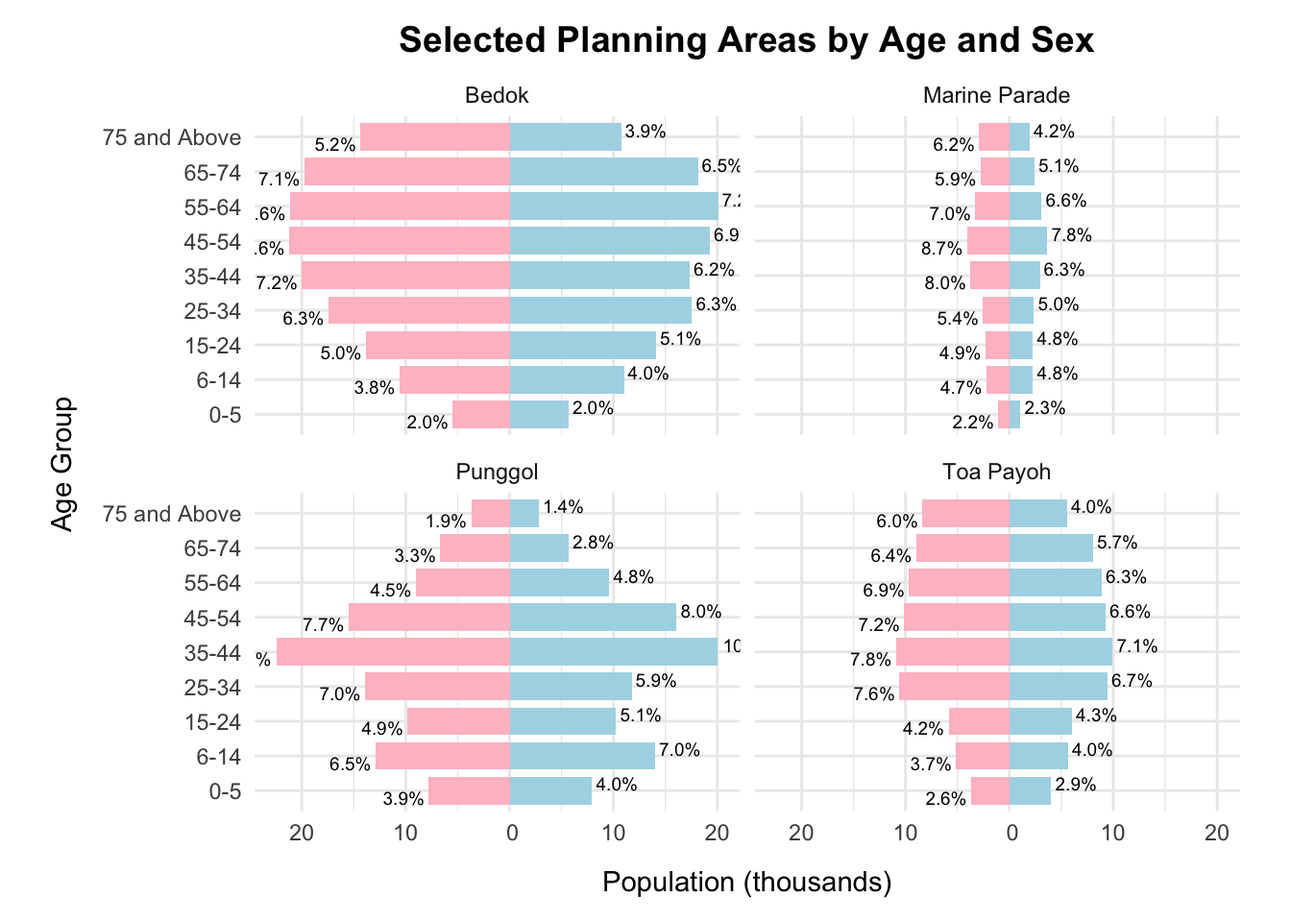
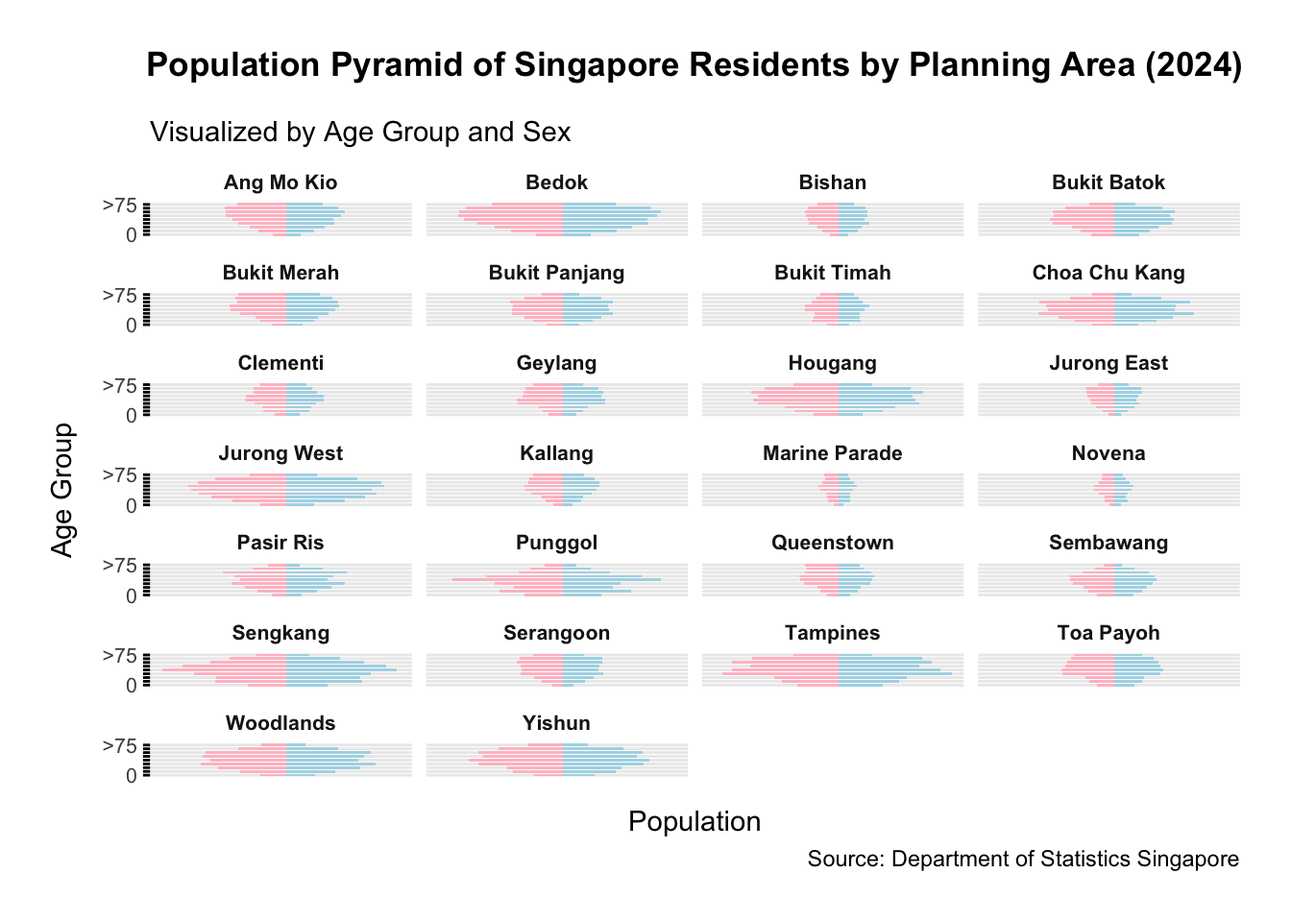
Commit after Update Take Home 4

diff --git a/_site/Take-home_Exercise/Take-home_Ex01/Take-Home_Exercise01.html b/_site/Take-home_Exercise/Take-home_Ex01/Take-Home_Exercise01.html
@@ -665,73 +665,148 @@ To uncover meaningful trends in age, gender, and location for public understandi
 <div class="cell">
 <details class="code-fold">
 <summary>Code</summary>
-<div class="sourceCode cell-code" id="cb10"><pre class="sourceCode r code-with-copy"><code class="sourceCode r"><span id="cb10-1"><a href="#cb10-1" aria-hidden="true" tabindex="-1"></a>include_areas <span class="ot">&lt;-</span> <span class="fu">c</span>(<span class="st">"Bedok"</span>, <span class="st">"Marine Parade"</span>, <span class="st">"Punggol"</span>, <span class="st">"Toa Payoh"</span>)</span>
-<span id="cb10-2"><a href="#cb10-2" aria-hidden="true" tabindex="-1"></a></span>
+<div class="sourceCode cell-code" id="cb10"><pre class="sourceCode r code-with-copy"><code class="sourceCode r"><span id="cb10-1"><a href="#cb10-1" aria-hidden="true" tabindex="-1"></a>exclude_areas <span class="ot">&lt;-</span> <span class="fu">c</span>(<span class="st">"Changi"</span>, <span class="st">"Downtown Core"</span>, <span class="st">"Museum"</span>, <span class="st">"Newton"</span>, <span class="st">"Outram"</span>,</span>
+<span id="cb10-2"><a href="#cb10-2" aria-hidden="true" tabindex="-1"></a>                   <span class="st">"River Valley"</span>, <span class="st">"Singapore River"</span>, <span class="st">"Southern Islands"</span>, <span class="st">"Tanglin"</span>, <span class="st">"Tengah"</span>)</span>
 <span id="cb10-3"><a href="#cb10-3" aria-hidden="true" tabindex="-1"></a></span>
-<span id="cb10-4"><a href="#cb10-4" aria-hidden="true" tabindex="-1"></a>age_order <span class="ot">&lt;-</span> <span class="fu">c</span>(<span class="st">"0-5"</span>, <span class="st">"6-14"</span>, <span class="st">"15-24"</span>, <span class="st">"25-34"</span>, <span class="st">"35-44"</span>, <span class="st">"45-54"</span>, <span class="st">"55-64"</span>, <span class="st">"65-74"</span>, <span class="st">"75 and Above"</span>)</span>
-<span id="cb10-5"><a href="#cb10-5" aria-hidden="true" tabindex="-1"></a></span>
-<span id="cb10-6"><a href="#cb10-6" aria-hidden="true" tabindex="-1"></a></span>
-<span id="cb10-7"><a href="#cb10-7" aria-hidden="true" tabindex="-1"></a>binrespo_filtered <span class="ot">&lt;-</span> binrespo <span class="sc">%&gt;%</span></span>
-<span id="cb10-8"><a href="#cb10-8" aria-hidden="true" tabindex="-1"></a>  <span class="fu">filter</span>(PA <span class="sc">%in%</span> include_areas, <span class="sc">!</span><span class="fu">is.na</span>(age_binned), <span class="sc">!</span><span class="fu">is.na</span>(Pop)) <span class="sc">%&gt;%</span></span>
-<span id="cb10-9"><a href="#cb10-9" aria-hidden="true" tabindex="-1"></a>  <span class="fu">mutate</span>(<span class="at">age_binned =</span> <span class="fu">factor</span>(age_binned, <span class="at">levels =</span> age_order, <span class="at">ordered =</span> <span class="cn">TRUE</span>))</span>
-<span id="cb10-10"><a href="#cb10-10" aria-hidden="true" tabindex="-1"></a></span>
-<span id="cb10-11"><a href="#cb10-11" aria-hidden="true" tabindex="-1"></a></span>
-<span id="cb10-12"><a href="#cb10-12" aria-hidden="true" tabindex="-1"></a>total_pop_pa <span class="ot">&lt;-</span> binrespo_filtered <span class="sc">%&gt;%</span></span>
-<span id="cb10-13"><a href="#cb10-13" aria-hidden="true" tabindex="-1"></a>  <span class="fu">group_by</span>(PA) <span class="sc">%&gt;%</span></span>
-<span id="cb10-14"><a href="#cb10-14" aria-hidden="true" tabindex="-1"></a>  <span class="fu">summarise</span>(<span class="at">TotalPopPA =</span> <span class="fu">sum</span>(Pop), <span class="at">.groups =</span> <span class="st">'drop'</span>)</span>
-<span id="cb10-15"><a href="#cb10-15" aria-hidden="true" tabindex="-1"></a></span>
-<span id="cb10-16"><a href="#cb10-16" aria-hidden="true" tabindex="-1"></a></span>
-<span id="cb10-17"><a href="#cb10-17" aria-hidden="true" tabindex="-1"></a>pyramid_data <span class="ot">&lt;-</span> binrespo_filtered <span class="sc">%&gt;%</span></span>
-<span id="cb10-18"><a href="#cb10-18" aria-hidden="true" tabindex="-1"></a>  <span class="fu">group_by</span>(PA, age_binned, Sex) <span class="sc">%&gt;%</span></span>
-<span id="cb10-19"><a href="#cb10-19" aria-hidden="true" tabindex="-1"></a>  <span class="fu">summarise</span>(<span class="at">TotalPop =</span> <span class="fu">sum</span>(Pop), <span class="at">.groups =</span> <span class="st">'drop'</span>) <span class="sc">%&gt;%</span></span>
-<span id="cb10-20"><a href="#cb10-20" aria-hidden="true" tabindex="-1"></a>  <span class="fu">left_join</span>(total_pop_pa, <span class="at">by =</span> <span class="st">"PA"</span>) <span class="sc">%&gt;%</span></span>
-<span id="cb10-21"><a href="#cb10-21" aria-hidden="true" tabindex="-1"></a>  <span class="fu">mutate</span>(</span>
-<span id="cb10-22"><a href="#cb10-22" aria-hidden="true" tabindex="-1"></a>    <span class="at">AdjustedPop =</span> <span class="fu">ifelse</span>(Sex <span class="sc">==</span> <span class="st">"Females"</span>, <span class="sc">-</span>TotalPop, TotalPop),</span>
-<span id="cb10-23"><a href="#cb10-23" aria-hidden="true" tabindex="-1"></a>    <span class="at">Percentage =</span> (TotalPop <span class="sc">/</span> TotalPopPA) <span class="sc">*</span> <span class="dv">100</span></span>
-<span id="cb10-24"><a href="#cb10-24" aria-hidden="true" tabindex="-1"></a>  )</span>
-<span id="cb10-25"><a href="#cb10-25" aria-hidden="true" tabindex="-1"></a></span>
+<span id="cb10-4"><a href="#cb10-4" aria-hidden="true" tabindex="-1"></a>binrespo_filtered <span class="ot">&lt;-</span> binrespo <span class="sc">%&gt;%</span></span>
+<span id="cb10-5"><a href="#cb10-5" aria-hidden="true" tabindex="-1"></a>  <span class="fu">filter</span>(<span class="sc">!</span>PA <span class="sc">%in%</span> exclude_areas, <span class="sc">!</span><span class="fu">is.na</span>(age_binned), <span class="sc">!</span><span class="fu">is.na</span>(Pop)) <span class="sc">%&gt;%</span></span>
+<span id="cb10-6"><a href="#cb10-6" aria-hidden="true" tabindex="-1"></a>  <span class="fu">mutate</span>(</span>
+<span id="cb10-7"><a href="#cb10-7" aria-hidden="true" tabindex="-1"></a>    <span class="at">age_binned_labeled =</span> <span class="fu">case_when</span>(</span>
+<span id="cb10-8"><a href="#cb10-8" aria-hidden="true" tabindex="-1"></a>      age_binned <span class="sc">==</span> <span class="st">"0-5"</span> <span class="sc">~</span> <span class="st">"0"</span>,</span>
+<span id="cb10-9"><a href="#cb10-9" aria-hidden="true" tabindex="-1"></a>      age_binned <span class="sc">==</span> <span class="st">"75 and Above"</span> <span class="sc">~</span> <span class="st">"&gt;75"</span>,</span>
+<span id="cb10-10"><a href="#cb10-10" aria-hidden="true" tabindex="-1"></a>      <span class="cn">TRUE</span> <span class="sc">~</span> <span class="fu">as.character</span>(age_binned)</span>
+<span id="cb10-11"><a href="#cb10-11" aria-hidden="true" tabindex="-1"></a>    ),</span>
+<span id="cb10-12"><a href="#cb10-12" aria-hidden="true" tabindex="-1"></a>    <span class="at">age_binned =</span> <span class="fu">factor</span>(age_binned,</span>
+<span id="cb10-13"><a href="#cb10-13" aria-hidden="true" tabindex="-1"></a>                        <span class="at">levels =</span> <span class="fu">c</span>(<span class="st">"0-5"</span>, <span class="st">"6-14"</span>, <span class="st">"15-24"</span>, <span class="st">"25-34"</span>,</span>
+<span id="cb10-14"><a href="#cb10-14" aria-hidden="true" tabindex="-1"></a>                                   <span class="st">"35-44"</span>, <span class="st">"45-54"</span>, <span class="st">"55-64"</span>, <span class="st">"65-74"</span>, <span class="st">"75 and Above"</span>),</span>
+<span id="cb10-15"><a href="#cb10-15" aria-hidden="true" tabindex="-1"></a>                        <span class="at">ordered =</span> <span class="cn">TRUE</span>),</span>
+<span id="cb10-16"><a href="#cb10-16" aria-hidden="true" tabindex="-1"></a>    <span class="at">age_binned_labeled =</span> <span class="fu">factor</span>(age_binned_labeled,</span>
+<span id="cb10-17"><a href="#cb10-17" aria-hidden="true" tabindex="-1"></a>                                <span class="at">levels =</span> <span class="fu">c</span>(<span class="st">"0"</span>, <span class="st">"6-14"</span>, <span class="st">"15-24"</span>, <span class="st">"25-34"</span>,</span>
+<span id="cb10-18"><a href="#cb10-18" aria-hidden="true" tabindex="-1"></a>                                           <span class="st">"35-44"</span>, <span class="st">"45-54"</span>, <span class="st">"55-64"</span>, <span class="st">"65-74"</span>, <span class="st">"&gt;75"</span>),</span>
+<span id="cb10-19"><a href="#cb10-19" aria-hidden="true" tabindex="-1"></a>                                <span class="at">ordered =</span> <span class="cn">TRUE</span>)</span>
+<span id="cb10-20"><a href="#cb10-20" aria-hidden="true" tabindex="-1"></a>  )</span>
+<span id="cb10-21"><a href="#cb10-21" aria-hidden="true" tabindex="-1"></a></span>
+<span id="cb10-22"><a href="#cb10-22" aria-hidden="true" tabindex="-1"></a>pyramid_data <span class="ot">&lt;-</span> binrespo_filtered <span class="sc">%&gt;%</span></span>
+<span id="cb10-23"><a href="#cb10-23" aria-hidden="true" tabindex="-1"></a>  <span class="fu">group_by</span>(PA, age_binned, age_binned_labeled, Sex) <span class="sc">%&gt;%</span></span>
+<span id="cb10-24"><a href="#cb10-24" aria-hidden="true" tabindex="-1"></a>  <span class="fu">summarise</span>(<span class="at">TotalPop =</span> <span class="fu">sum</span>(Pop), <span class="at">.groups =</span> <span class="st">'drop'</span>) <span class="sc">%&gt;%</span></span>
+<span id="cb10-25"><a href="#cb10-25" aria-hidden="true" tabindex="-1"></a>  <span class="fu">mutate</span>(<span class="at">AdjustedPop =</span> <span class="fu">ifelse</span>(Sex <span class="sc">==</span> <span class="st">"Females"</span>, <span class="sc">-</span>TotalPop, TotalPop))</span>
 <span id="cb10-26"><a href="#cb10-26" aria-hidden="true" tabindex="-1"></a></span>
-<span id="cb10-27"><a href="#cb10-27" aria-hidden="true" tabindex="-1"></a>max_abs_pop <span class="ot">&lt;-</span> <span class="fu">ceiling</span>(<span class="fu">max</span>(<span class="fu">abs</span>(pyramid_data<span class="sc">$</span>AdjustedPop)) <span class="sc">/</span> <span class="dv">10000</span>) <span class="sc">*</span> <span class="dv">10000</span></span>
-<span id="cb10-28"><a href="#cb10-28" aria-hidden="true" tabindex="-1"></a>y_breaks <span class="ot">&lt;-</span> <span class="fu">seq</span>(<span class="sc">-</span>max_abs_pop, max_abs_pop, <span class="at">by =</span> <span class="dv">10000</span>)</span>
-<span id="cb10-29"><a href="#cb10-29" aria-hidden="true" tabindex="-1"></a>num_pas <span class="ot">&lt;-</span> <span class="fu">length</span>(<span class="fu">unique</span>(pyramid_data<span class="sc">$</span>PA))</span>
-<span id="cb10-30"><a href="#cb10-30" aria-hidden="true" tabindex="-1"></a>num_rows <span class="ot">&lt;-</span> <span class="fu">ceiling</span>(num_pas <span class="sc">/</span> <span class="dv">2</span>)</span>
-<span id="cb10-31"><a href="#cb10-31" aria-hidden="true" tabindex="-1"></a></span>
-<span id="cb10-32"><a href="#cb10-32" aria-hidden="true" tabindex="-1"></a></span>
-<span id="cb10-33"><a href="#cb10-33" aria-hidden="true" tabindex="-1"></a><span class="fu">ggplot</span>(pyramid_data, <span class="fu">aes</span>(<span class="at">x =</span> age_binned, <span class="at">y =</span> AdjustedPop, <span class="at">fill =</span> Sex)) <span class="sc">+</span></span>
-<span id="cb10-34"><a href="#cb10-34" aria-hidden="true" tabindex="-1"></a>  <span class="fu">geom_bar</span>(<span class="at">stat =</span> <span class="st">"identity"</span>, <span class="at">width =</span> <span class="fl">0.8</span>) <span class="sc">+</span></span>
-<span id="cb10-35"><a href="#cb10-35" aria-hidden="true" tabindex="-1"></a>  <span class="fu">coord_flip</span>() <span class="sc">+</span></span>
-<span id="cb10-36"><a href="#cb10-36" aria-hidden="true" tabindex="-1"></a>  <span class="fu">facet_wrap</span>(<span class="sc">~</span> PA, <span class="at">nrow =</span> num_rows) <span class="sc">+</span></span>
-<span id="cb10-37"><a href="#cb10-37" aria-hidden="true" tabindex="-1"></a>  <span class="fu">scale_y_continuous</span>(</span>
-<span id="cb10-38"><a href="#cb10-38" aria-hidden="true" tabindex="-1"></a>    <span class="at">labels =</span> <span class="cf">function</span>(x) <span class="fu">format</span>(<span class="fu">abs</span>(x) <span class="sc">/</span> <span class="dv">1000</span>, <span class="at">scientific =</span> <span class="cn">FALSE</span>, <span class="at">suffix =</span> <span class="st">"k"</span>),</span>
-<span id="cb10-39"><a href="#cb10-39" aria-hidden="true" tabindex="-1"></a>    <span class="at">name =</span> <span class="st">"Population (thousands)"</span>,</span>
-<span id="cb10-40"><a href="#cb10-40" aria-hidden="true" tabindex="-1"></a>    <span class="at">breaks =</span> y_breaks</span>
-<span id="cb10-41"><a href="#cb10-41" aria-hidden="true" tabindex="-1"></a>  ) <span class="sc">+</span></span>
-<span id="cb10-42"><a href="#cb10-42" aria-hidden="true" tabindex="-1"></a>  <span class="fu">scale_fill_manual</span>(<span class="at">values =</span> <span class="fu">c</span>(<span class="st">"Females"</span> <span class="ot">=</span> <span class="st">"pink"</span>, <span class="st">"Males"</span> <span class="ot">=</span> <span class="st">"lightblue"</span>)) <span class="sc">+</span></span>
-<span id="cb10-43"><a href="#cb10-43" aria-hidden="true" tabindex="-1"></a>  <span class="fu">geom_text</span>(</span>
-<span id="cb10-44"><a href="#cb10-44" aria-hidden="true" tabindex="-1"></a>    <span class="fu">aes</span>(<span class="at">label =</span> <span class="fu">sprintf</span>(<span class="st">"%.1f%%"</span>, Percentage),</span>
-<span id="cb10-45"><a href="#cb10-45" aria-hidden="true" tabindex="-1"></a>        <span class="at">hjust =</span> <span class="fu">ifelse</span>(AdjustedPop <span class="sc">&gt;</span> <span class="dv">0</span>, <span class="sc">-</span><span class="fl">0.1</span>, <span class="fl">1.1</span>)), </span>
-<span id="cb10-46"><a href="#cb10-46" aria-hidden="true" tabindex="-1"></a>    <span class="at">size =</span> <span class="fl">2.5</span>,</span>
-<span id="cb10-47"><a href="#cb10-47" aria-hidden="true" tabindex="-1"></a>    <span class="at">position =</span> <span class="fu">position_dodge</span>(<span class="at">width =</span> <span class="fl">0.8</span>)</span>
+<span id="cb10-27"><a href="#cb10-27" aria-hidden="true" tabindex="-1"></a><span class="fu">ggplot</span>(pyramid_data, <span class="fu">aes</span>(<span class="at">x =</span> age_binned, <span class="at">y =</span> AdjustedPop, <span class="at">fill =</span> Sex)) <span class="sc">+</span></span>
+<span id="cb10-28"><a href="#cb10-28" aria-hidden="true" tabindex="-1"></a>  <span class="fu">geom_bar</span>(<span class="at">stat =</span> <span class="st">"identity"</span>, <span class="at">width =</span> <span class="fl">0.7</span>) <span class="sc">+</span></span>
+<span id="cb10-29"><a href="#cb10-29" aria-hidden="true" tabindex="-1"></a>  <span class="fu">coord_flip</span>() <span class="sc">+</span></span>
+<span id="cb10-30"><a href="#cb10-30" aria-hidden="true" tabindex="-1"></a>  <span class="fu">facet_wrap</span>(<span class="sc">~</span> PA, <span class="at">ncol =</span> <span class="dv">4</span>) <span class="sc">+</span></span>
+<span id="cb10-31"><a href="#cb10-31" aria-hidden="true" tabindex="-1"></a>  <span class="fu">scale_y_continuous</span>(</span>
+<span id="cb10-32"><a href="#cb10-32" aria-hidden="true" tabindex="-1"></a>    <span class="at">labels =</span> abs,</span>
+<span id="cb10-33"><a href="#cb10-33" aria-hidden="true" tabindex="-1"></a>    <span class="at">name =</span> <span class="st">"Population"</span>,</span>
+<span id="cb10-34"><a href="#cb10-34" aria-hidden="true" tabindex="-1"></a>    <span class="at">breaks =</span> scales<span class="sc">::</span><span class="fu">pretty_breaks</span>(<span class="at">n =</span> <span class="dv">4</span>)</span>
+<span id="cb10-35"><a href="#cb10-35" aria-hidden="true" tabindex="-1"></a>  ) <span class="sc">+</span></span>
+<span id="cb10-36"><a href="#cb10-36" aria-hidden="true" tabindex="-1"></a>  <span class="fu">scale_x_discrete</span>(</span>
+<span id="cb10-37"><a href="#cb10-37" aria-hidden="true" tabindex="-1"></a>    <span class="at">name =</span> <span class="st">"Age Group"</span>,</span>
+<span id="cb10-38"><a href="#cb10-38" aria-hidden="true" tabindex="-1"></a>    <span class="at">labels =</span> <span class="fu">case_when</span>(</span>
+<span id="cb10-39"><a href="#cb10-39" aria-hidden="true" tabindex="-1"></a>      <span class="fu">levels</span>(pyramid_data<span class="sc">$</span>age_binned) <span class="sc">%in%</span> <span class="fu">c</span>(<span class="st">"0-5"</span>, <span class="st">"75 and Above"</span>) <span class="sc">~</span> <span class="fu">levels</span>(pyramid_data<span class="sc">$</span>age_binned_labeled),</span>
+<span id="cb10-40"><a href="#cb10-40" aria-hidden="true" tabindex="-1"></a>      <span class="cn">TRUE</span> <span class="sc">~</span> <span class="st">""</span></span>
+<span id="cb10-41"><a href="#cb10-41" aria-hidden="true" tabindex="-1"></a>    )</span>
+<span id="cb10-42"><a href="#cb10-42" aria-hidden="true" tabindex="-1"></a>  ) <span class="sc">+</span></span>
+<span id="cb10-43"><a href="#cb10-43" aria-hidden="true" tabindex="-1"></a>  <span class="fu">scale_fill_manual</span>(<span class="at">values =</span> <span class="fu">c</span>(<span class="st">"Females"</span> <span class="ot">=</span> <span class="st">"pink"</span>, <span class="st">"Males"</span> <span class="ot">=</span> <span class="st">"lightblue"</span>)) <span class="sc">+</span></span>
+<span id="cb10-44"><a href="#cb10-44" aria-hidden="true" tabindex="-1"></a>  <span class="fu">labs</span>(</span>
+<span id="cb10-45"><a href="#cb10-45" aria-hidden="true" tabindex="-1"></a>    <span class="at">title =</span> <span class="st">"Population Pyramid of Singapore Residents by Planning Area (2024)"</span>,</span>
+<span id="cb10-46"><a href="#cb10-46" aria-hidden="true" tabindex="-1"></a>    <span class="at">subtitle =</span> <span class="st">"Visualized by Age Group and Sex"</span>,</span>
+<span id="cb10-47"><a href="#cb10-47" aria-hidden="true" tabindex="-1"></a>    <span class="at">caption =</span> <span class="st">"Source: Department of Statistics Singapore"</span></span>
 <span id="cb10-48"><a href="#cb10-48" aria-hidden="true" tabindex="-1"></a>  ) <span class="sc">+</span></span>
-<span id="cb10-49"><a href="#cb10-49" aria-hidden="true" tabindex="-1"></a>  <span class="fu">labs</span>(</span>
-<span id="cb10-50"><a href="#cb10-50" aria-hidden="true" tabindex="-1"></a>    <span class="at">title =</span> <span class="st">"Selected Planning Areas by Age and Sex"</span>,</span>
-<span id="cb10-51"><a href="#cb10-51" aria-hidden="true" tabindex="-1"></a>    <span class="at">x =</span> <span class="st">"Age Group"</span>,</span>
-<span id="cb10-52"><a href="#cb10-52" aria-hidden="true" tabindex="-1"></a>    <span class="at">y =</span> <span class="st">"Population"</span></span>
-<span id="cb10-53"><a href="#cb10-53" aria-hidden="true" tabindex="-1"></a>  ) <span class="sc">+</span></span>
-<span id="cb10-54"><a href="#cb10-54" aria-hidden="true" tabindex="-1"></a>  <span class="fu">theme_minimal</span>() <span class="sc">+</span></span>
-<span id="cb10-55"><a href="#cb10-55" aria-hidden="true" tabindex="-1"></a>  <span class="fu">theme</span>(</span>
-<span id="cb10-56"><a href="#cb10-56" aria-hidden="true" tabindex="-1"></a>    <span class="at">legend.position =</span> <span class="st">"none"</span>,                   </span>
-<span id="cb10-57"><a href="#cb10-57" aria-hidden="true" tabindex="-1"></a>    <span class="at">plot.title =</span> <span class="fu">element_text</span>(<span class="at">face =</span> <span class="st">"bold"</span>, <span class="at">size =</span> <span class="dv">14</span>, <span class="at">hjust =</span> <span class="fl">0.5</span>),  </span>
-<span id="cb10-58"><a href="#cb10-58" aria-hidden="true" tabindex="-1"></a>    <span class="at">plot.margin =</span> <span class="fu">margin</span>(<span class="at">t =</span> <span class="dv">10</span>, <span class="at">r =</span> <span class="dv">20</span>, <span class="at">b =</span> <span class="dv">10</span>, <span class="at">l =</span> <span class="dv">20</span>),</span>
-<span id="cb10-59"><a href="#cb10-59" aria-hidden="true" tabindex="-1"></a>    <span class="at">axis.title.y =</span> <span class="fu">element_text</span>(<span class="at">margin =</span> <span class="fu">margin</span>(<span class="at">r =</span> <span class="dv">10</span>)),</span>
-<span id="cb10-60"><a href="#cb10-60" aria-hidden="true" tabindex="-1"></a>    <span class="at">axis.title.x =</span> <span class="fu">element_text</span>(<span class="at">margin =</span> <span class="fu">margin</span>(<span class="at">t =</span> <span class="dv">10</span>))</span>
-<span id="cb10-61"><a href="#cb10-61" aria-hidden="true" tabindex="-1"></a>    </span>
-<span id="cb10-62"><a href="#cb10-62" aria-hidden="true" tabindex="-1"></a>  )</span></code><button title="Copy to Clipboard" class="code-copy-button"><i class="bi"></i></button></pre></div>
+<span id="cb10-49"><a href="#cb10-49" aria-hidden="true" tabindex="-1"></a>  <span class="fu">theme_minimal</span>() <span class="sc">+</span></span>
+<span id="cb10-50"><a href="#cb10-50" aria-hidden="true" tabindex="-1"></a>  <span class="fu">theme</span>(</span>
+<span id="cb10-51"><a href="#cb10-51" aria-hidden="true" tabindex="-1"></a>    <span class="at">axis.text.y =</span> <span class="fu">element_text</span>(<span class="at">size =</span> <span class="dv">8</span>),</span>
+<span id="cb10-52"><a href="#cb10-52" aria-hidden="true" tabindex="-1"></a>    <span class="at">axis.ticks.y =</span> <span class="fu">element_line</span>(),</span>
+<span id="cb10-53"><a href="#cb10-53" aria-hidden="true" tabindex="-1"></a>    <span class="at">axis.title.y =</span> <span class="fu">element_text</span>(<span class="at">margin =</span> <span class="fu">margin</span>(<span class="at">r =</span> <span class="dv">10</span>)),</span>
+<span id="cb10-54"><a href="#cb10-54" aria-hidden="true" tabindex="-1"></a>    <span class="at">axis.title.x =</span> <span class="fu">element_text</span>(<span class="at">margin =</span> <span class="fu">margin</span>(<span class="at">t =</span> <span class="dv">10</span>)),</span>
+<span id="cb10-55"><a href="#cb10-55" aria-hidden="true" tabindex="-1"></a>    <span class="at">axis.text.x =</span> <span class="fu">element_blank</span>(),</span>
+<span id="cb10-56"><a href="#cb10-56" aria-hidden="true" tabindex="-1"></a>    <span class="at">axis.ticks.x =</span> <span class="fu">element_blank</span>(),</span>
+<span id="cb10-57"><a href="#cb10-57" aria-hidden="true" tabindex="-1"></a>    <span class="at">panel.grid.major.x =</span> <span class="fu">element_blank</span>(),</span>
+<span id="cb10-58"><a href="#cb10-58" aria-hidden="true" tabindex="-1"></a>    <span class="at">panel.grid.minor.x =</span> <span class="fu">element_blank</span>(),</span>
+<span id="cb10-59"><a href="#cb10-59" aria-hidden="true" tabindex="-1"></a>    <span class="at">strip.text =</span> <span class="fu">element_text</span>(<span class="at">size =</span> <span class="dv">8</span>, <span class="at">face =</span> <span class="st">"bold"</span>),</span>
+<span id="cb10-60"><a href="#cb10-60" aria-hidden="true" tabindex="-1"></a>    <span class="at">plot.title =</span> <span class="fu">element_text</span>(<span class="at">hjust =</span> <span class="fl">0.5</span>, <span class="at">face =</span> <span class="st">"bold"</span>, <span class="at">margin =</span> <span class="fu">margin</span>(<span class="at">b =</span> <span class="dv">15</span>)),</span>
+<span id="cb10-61"><a href="#cb10-61" aria-hidden="true" tabindex="-1"></a>    <span class="at">legend.position =</span> <span class="st">"none"</span>,</span>
+<span id="cb10-62"><a href="#cb10-62" aria-hidden="true" tabindex="-1"></a>    <span class="at">plot.margin =</span> <span class="fu">margin</span>(<span class="dv">20</span>, <span class="dv">20</span>, <span class="dv">20</span>, <span class="dv">20</span>)</span>
+<span id="cb10-63"><a href="#cb10-63" aria-hidden="true" tabindex="-1"></a>  )</span></code><button title="Copy to Clipboard" class="code-copy-button"><i class="bi"></i></button></pre></div>
 </details>
 <div class="cell-output-display">
 <div>
 <figure class="figure">
 <p><img src="Take-Home_Exercise01_files/figure-html/unnamed-chunk-9-1.png" class="img-fluid figure-img" width="672"></p>
+</figure>
+</div>
+</div>
+</div>
+<div class="cell">
+<details class="code-fold">
+<summary>Code</summary>
+<div class="sourceCode cell-code" id="cb11"><pre class="sourceCode r code-with-copy"><code class="sourceCode r"><span id="cb11-1"><a href="#cb11-1" aria-hidden="true" tabindex="-1"></a>include_areas <span class="ot">&lt;-</span> <span class="fu">c</span>(<span class="st">"Bedok"</span>, <span class="st">"Marine Parade"</span>, <span class="st">"Punggol"</span>, <span class="st">"Toa Payoh"</span>)</span>
+<span id="cb11-2"><a href="#cb11-2" aria-hidden="true" tabindex="-1"></a></span>
+<span id="cb11-3"><a href="#cb11-3" aria-hidden="true" tabindex="-1"></a></span>
+<span id="cb11-4"><a href="#cb11-4" aria-hidden="true" tabindex="-1"></a>age_order <span class="ot">&lt;-</span> <span class="fu">c</span>(<span class="st">"0-5"</span>, <span class="st">"6-14"</span>, <span class="st">"15-24"</span>, <span class="st">"25-34"</span>, <span class="st">"35-44"</span>, <span class="st">"45-54"</span>, <span class="st">"55-64"</span>, <span class="st">"65-74"</span>, <span class="st">"75 and Above"</span>)</span>
+<span id="cb11-5"><a href="#cb11-5" aria-hidden="true" tabindex="-1"></a></span>
+<span id="cb11-6"><a href="#cb11-6" aria-hidden="true" tabindex="-1"></a></span>
+<span id="cb11-7"><a href="#cb11-7" aria-hidden="true" tabindex="-1"></a>binrespo_filtered <span class="ot">&lt;-</span> binrespo <span class="sc">%&gt;%</span></span>
+<span id="cb11-8"><a href="#cb11-8" aria-hidden="true" tabindex="-1"></a>  <span class="fu">filter</span>(PA <span class="sc">%in%</span> include_areas, <span class="sc">!</span><span class="fu">is.na</span>(age_binned), <span class="sc">!</span><span class="fu">is.na</span>(Pop)) <span class="sc">%&gt;%</span></span>
+<span id="cb11-9"><a href="#cb11-9" aria-hidden="true" tabindex="-1"></a>  <span class="fu">mutate</span>(<span class="at">age_binned =</span> <span class="fu">factor</span>(age_binned, <span class="at">levels =</span> age_order, <span class="at">ordered =</span> <span class="cn">TRUE</span>))</span>
+<span id="cb11-10"><a href="#cb11-10" aria-hidden="true" tabindex="-1"></a></span>
+<span id="cb11-11"><a href="#cb11-11" aria-hidden="true" tabindex="-1"></a></span>
+<span id="cb11-12"><a href="#cb11-12" aria-hidden="true" tabindex="-1"></a>total_pop_pa <span class="ot">&lt;-</span> binrespo_filtered <span class="sc">%&gt;%</span></span>
+<span id="cb11-13"><a href="#cb11-13" aria-hidden="true" tabindex="-1"></a>  <span class="fu">group_by</span>(PA) <span class="sc">%&gt;%</span></span>
+<span id="cb11-14"><a href="#cb11-14" aria-hidden="true" tabindex="-1"></a>  <span class="fu">summarise</span>(<span class="at">TotalPopPA =</span> <span class="fu">sum</span>(Pop), <span class="at">.groups =</span> <span class="st">'drop'</span>)</span>
+<span id="cb11-15"><a href="#cb11-15" aria-hidden="true" tabindex="-1"></a></span>
+<span id="cb11-16"><a href="#cb11-16" aria-hidden="true" tabindex="-1"></a></span>
+<span id="cb11-17"><a href="#cb11-17" aria-hidden="true" tabindex="-1"></a>pyramid_data <span class="ot">&lt;-</span> binrespo_filtered <span class="sc">%&gt;%</span></span>
+<span id="cb11-18"><a href="#cb11-18" aria-hidden="true" tabindex="-1"></a>  <span class="fu">group_by</span>(PA, age_binned, Sex) <span class="sc">%&gt;%</span></span>
+<span id="cb11-19"><a href="#cb11-19" aria-hidden="true" tabindex="-1"></a>  <span class="fu">summarise</span>(<span class="at">TotalPop =</span> <span class="fu">sum</span>(Pop), <span class="at">.groups =</span> <span class="st">'drop'</span>) <span class="sc">%&gt;%</span></span>
+<span id="cb11-20"><a href="#cb11-20" aria-hidden="true" tabindex="-1"></a>  <span class="fu">left_join</span>(total_pop_pa, <span class="at">by =</span> <span class="st">"PA"</span>) <span class="sc">%&gt;%</span></span>
+<span id="cb11-21"><a href="#cb11-21" aria-hidden="true" tabindex="-1"></a>  <span class="fu">mutate</span>(</span>
+<span id="cb11-22"><a href="#cb11-22" aria-hidden="true" tabindex="-1"></a>    <span class="at">AdjustedPop =</span> <span class="fu">ifelse</span>(Sex <span class="sc">==</span> <span class="st">"Females"</span>, <span class="sc">-</span>TotalPop, TotalPop),</span>
+<span id="cb11-23"><a href="#cb11-23" aria-hidden="true" tabindex="-1"></a>    <span class="at">Percentage =</span> (TotalPop <span class="sc">/</span> TotalPopPA) <span class="sc">*</span> <span class="dv">100</span></span>
+<span id="cb11-24"><a href="#cb11-24" aria-hidden="true" tabindex="-1"></a>  )</span>
+<span id="cb11-25"><a href="#cb11-25" aria-hidden="true" tabindex="-1"></a></span>
+<span id="cb11-26"><a href="#cb11-26" aria-hidden="true" tabindex="-1"></a></span>
+<span id="cb11-27"><a href="#cb11-27" aria-hidden="true" tabindex="-1"></a>max_abs_pop <span class="ot">&lt;-</span> <span class="fu">ceiling</span>(<span class="fu">max</span>(<span class="fu">abs</span>(pyramid_data<span class="sc">$</span>AdjustedPop)) <span class="sc">/</span> <span class="dv">10000</span>) <span class="sc">*</span> <span class="dv">10000</span></span>
+<span id="cb11-28"><a href="#cb11-28" aria-hidden="true" tabindex="-1"></a>y_breaks <span class="ot">&lt;-</span> <span class="fu">seq</span>(<span class="sc">-</span>max_abs_pop, max_abs_pop, <span class="at">by =</span> <span class="dv">10000</span>)</span>
+<span id="cb11-29"><a href="#cb11-29" aria-hidden="true" tabindex="-1"></a>num_pas <span class="ot">&lt;-</span> <span class="fu">length</span>(<span class="fu">unique</span>(pyramid_data<span class="sc">$</span>PA))</span>
+<span id="cb11-30"><a href="#cb11-30" aria-hidden="true" tabindex="-1"></a>num_rows <span class="ot">&lt;-</span> <span class="fu">ceiling</span>(num_pas <span class="sc">/</span> <span class="dv">2</span>)</span>
+<span id="cb11-31"><a href="#cb11-31" aria-hidden="true" tabindex="-1"></a></span>
+<span id="cb11-32"><a href="#cb11-32" aria-hidden="true" tabindex="-1"></a></span>
+<span id="cb11-33"><a href="#cb11-33" aria-hidden="true" tabindex="-1"></a><span class="fu">ggplot</span>(pyramid_data, <span class="fu">aes</span>(<span class="at">x =</span> age_binned, <span class="at">y =</span> AdjustedPop, <span class="at">fill =</span> Sex)) <span class="sc">+</span></span>
+<span id="cb11-34"><a href="#cb11-34" aria-hidden="true" tabindex="-1"></a>  <span class="fu">geom_bar</span>(<span class="at">stat =</span> <span class="st">"identity"</span>, <span class="at">width =</span> <span class="fl">0.8</span>) <span class="sc">+</span></span>
+<span id="cb11-35"><a href="#cb11-35" aria-hidden="true" tabindex="-1"></a>  <span class="fu">coord_flip</span>() <span class="sc">+</span></span>
+<span id="cb11-36"><a href="#cb11-36" aria-hidden="true" tabindex="-1"></a>  <span class="fu">facet_wrap</span>(<span class="sc">~</span> PA, <span class="at">nrow =</span> num_rows) <span class="sc">+</span></span>
+<span id="cb11-37"><a href="#cb11-37" aria-hidden="true" tabindex="-1"></a>  <span class="fu">scale_y_continuous</span>(</span>
+<span id="cb11-38"><a href="#cb11-38" aria-hidden="true" tabindex="-1"></a>    <span class="at">labels =</span> <span class="cf">function</span>(x) <span class="fu">format</span>(<span class="fu">abs</span>(x) <span class="sc">/</span> <span class="dv">1000</span>, <span class="at">scientific =</span> <span class="cn">FALSE</span>, <span class="at">suffix =</span> <span class="st">"k"</span>),</span>
+<span id="cb11-39"><a href="#cb11-39" aria-hidden="true" tabindex="-1"></a>    <span class="at">name =</span> <span class="st">"Population (thousands)"</span>,</span>
+<span id="cb11-40"><a href="#cb11-40" aria-hidden="true" tabindex="-1"></a>    <span class="at">breaks =</span> y_breaks</span>
+<span id="cb11-41"><a href="#cb11-41" aria-hidden="true" tabindex="-1"></a>  ) <span class="sc">+</span></span>
+<span id="cb11-42"><a href="#cb11-42" aria-hidden="true" tabindex="-1"></a>  <span class="fu">scale_fill_manual</span>(<span class="at">values =</span> <span class="fu">c</span>(<span class="st">"Females"</span> <span class="ot">=</span> <span class="st">"pink"</span>, <span class="st">"Males"</span> <span class="ot">=</span> <span class="st">"lightblue"</span>)) <span class="sc">+</span></span>
+<span id="cb11-43"><a href="#cb11-43" aria-hidden="true" tabindex="-1"></a>  <span class="fu">geom_text</span>(</span>
+<span id="cb11-44"><a href="#cb11-44" aria-hidden="true" tabindex="-1"></a>    <span class="fu">aes</span>(<span class="at">label =</span> <span class="fu">sprintf</span>(<span class="st">"%.1f%%"</span>, Percentage),</span>
+<span id="cb11-45"><a href="#cb11-45" aria-hidden="true" tabindex="-1"></a>        <span class="at">hjust =</span> <span class="fu">ifelse</span>(AdjustedPop <span class="sc">&gt;</span> <span class="dv">0</span>, <span class="sc">-</span><span class="fl">0.1</span>, <span class="fl">1.1</span>)), </span>
+<span id="cb11-46"><a href="#cb11-46" aria-hidden="true" tabindex="-1"></a>    <span class="at">size =</span> <span class="fl">2.5</span>,</span>
+<span id="cb11-47"><a href="#cb11-47" aria-hidden="true" tabindex="-1"></a>    <span class="at">position =</span> <span class="fu">position_dodge</span>(<span class="at">width =</span> <span class="fl">0.8</span>)</span>
+<span id="cb11-48"><a href="#cb11-48" aria-hidden="true" tabindex="-1"></a>  ) <span class="sc">+</span></span>
+<span id="cb11-49"><a href="#cb11-49" aria-hidden="true" tabindex="-1"></a>  <span class="fu">labs</span>(</span>
+<span id="cb11-50"><a href="#cb11-50" aria-hidden="true" tabindex="-1"></a>    <span class="at">title =</span> <span class="st">"Selected Planning Areas by Age and Sex"</span>,</span>
+<span id="cb11-51"><a href="#cb11-51" aria-hidden="true" tabindex="-1"></a>    <span class="at">x =</span> <span class="st">"Age Group"</span>,</span>
+<span id="cb11-52"><a href="#cb11-52" aria-hidden="true" tabindex="-1"></a>    <span class="at">y =</span> <span class="st">"Population"</span></span>
+<span id="cb11-53"><a href="#cb11-53" aria-hidden="true" tabindex="-1"></a>  ) <span class="sc">+</span></span>
+<span id="cb11-54"><a href="#cb11-54" aria-hidden="true" tabindex="-1"></a>  <span class="fu">theme_minimal</span>() <span class="sc">+</span></span>
+<span id="cb11-55"><a href="#cb11-55" aria-hidden="true" tabindex="-1"></a>  <span class="fu">theme</span>(</span>
+<span id="cb11-56"><a href="#cb11-56" aria-hidden="true" tabindex="-1"></a>    <span class="at">legend.position =</span> <span class="st">"none"</span>,                   </span>
+<span id="cb11-57"><a href="#cb11-57" aria-hidden="true" tabindex="-1"></a>    <span class="at">plot.title =</span> <span class="fu">element_text</span>(<span class="at">face =</span> <span class="st">"bold"</span>, <span class="at">size =</span> <span class="dv">14</span>, <span class="at">hjust =</span> <span class="fl">0.5</span>),  </span>
+<span id="cb11-58"><a href="#cb11-58" aria-hidden="true" tabindex="-1"></a>    <span class="at">plot.margin =</span> <span class="fu">margin</span>(<span class="at">t =</span> <span class="dv">10</span>, <span class="at">r =</span> <span class="dv">20</span>, <span class="at">b =</span> <span class="dv">10</span>, <span class="at">l =</span> <span class="dv">20</span>),</span>
+<span id="cb11-59"><a href="#cb11-59" aria-hidden="true" tabindex="-1"></a>    <span class="at">axis.title.y =</span> <span class="fu">element_text</span>(<span class="at">margin =</span> <span class="fu">margin</span>(<span class="at">r =</span> <span class="dv">10</span>)),</span>
+<span id="cb11-60"><a href="#cb11-60" aria-hidden="true" tabindex="-1"></a>    <span class="at">axis.title.x =</span> <span class="fu">element_text</span>(<span class="at">margin =</span> <span class="fu">margin</span>(<span class="at">t =</span> <span class="dv">10</span>))</span>
+<span id="cb11-61"><a href="#cb11-61" aria-hidden="true" tabindex="-1"></a>    </span>
+<span id="cb11-62"><a href="#cb11-62" aria-hidden="true" tabindex="-1"></a>  )</span></code><button title="Copy to Clipboard" class="code-copy-button"><i class="bi"></i></button></pre></div>
+</details>
+<div class="cell-output-display">
+<div>
+<figure class="figure">
+<p><img src="Take-Home_Exercise01_files/figure-html/unnamed-chunk-10-1.png" class="img-fluid figure-img" width="672"></p>
 </figure>
 </div>
 </div>
